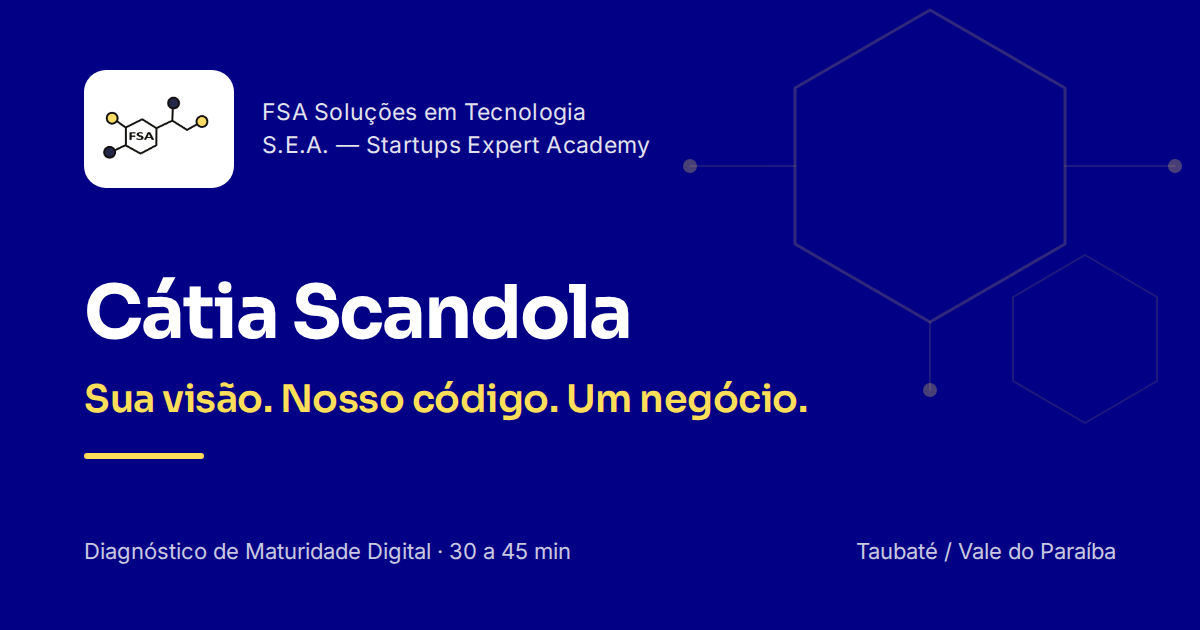
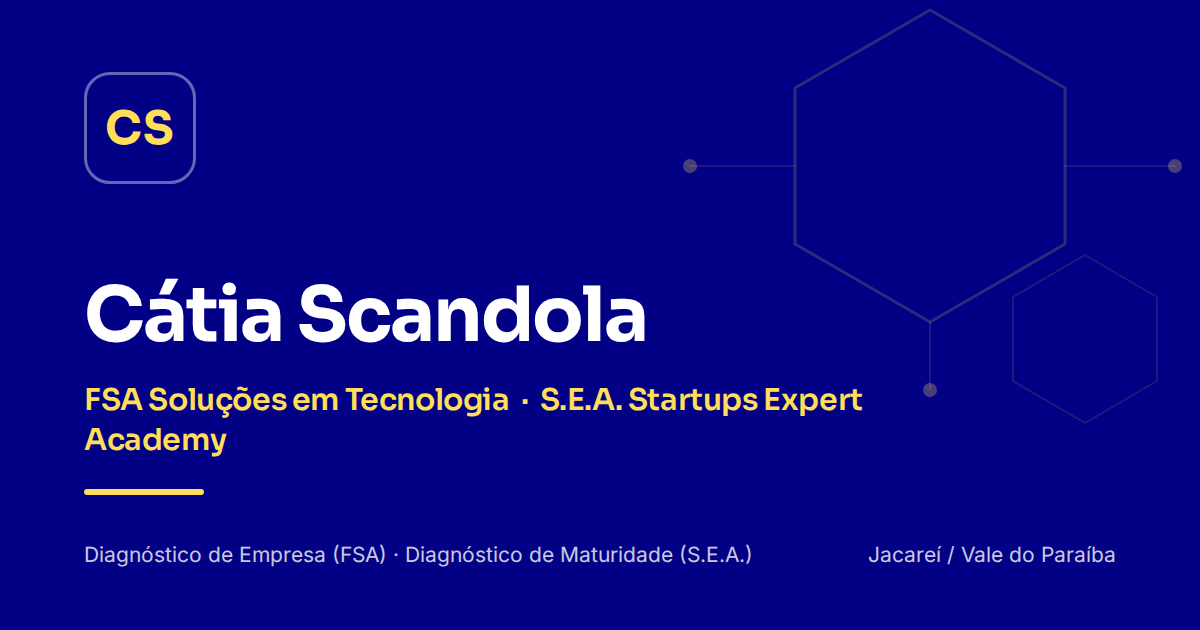
Correct location, separate the two brands and fix offer attribution
Three factual corrections from the owner:

- The base is Jacarei, not Taubate. Corrected in the footer, the meta
  description, the JSON-LD address and areaServed, the social card and the
  agent definitions.
- FSA and S.E.A. are separate companies and must not be merged into one
  identity. The page is Catia's personal hub, so it no longer signs off as
  FSA, drops the FSA slogan from its heading and metadata, and stops using
  the FSA emblem as the page identity. The JSON-LD now declares both
  organisations, with the person affiliated to each.
- The offers were attributed to the wrong brand. The Diagnostico de
  Maturidade belongs to S.E.A. and now sits on the S.E.A. link; the FSA
  WhatsApp button offers the Diagnostico de Empresa, with no duration
  claimed since none was given.

Regenerate og-image.png, favicon.png and apple-touch-icon.png accordingly.
fsa-icone.png stays in the repository for use where FSA is the subject.

Fold the same rules into seo-tecnico and copy-fsa so the agents stop
repeating the errors.

Claude-Session: https://claude.ai/code/session_01QgepXam2kYszhrwmbSXFkY

diff --git a/index.html b/index.html
@@ -4,7 +4,7 @@
 <meta charset="utf-8">
 <meta name="viewport" content="width=device-width, initial-scale=1">
 <title>Cátia Scandola — FSA Soluções em Tecnologia e S.E.A.</title>
-<meta name="description" content="Sua visão. Nosso código. Um negócio. FSA Soluções em Tecnologia e S.E.A. — Diagnóstico de Maturidade Digital para empresas do Vale do Paraíba.">
+<meta name="description" content="Cátia Scandola — FSA Soluções em Tecnologia e S.E.A. Diagnóstico de Empresa com a FSA, Diagnóstico de Maturidade com a S.E.A. Jacareí, Vale do Paraíba.">
 <link rel="canonical" href="https://catiascan.github.io/">
 <meta name="theme-color" content="#020084">
 
@@ -20,14 +20,14 @@
 <meta property="og:locale" content="pt_BR">
 <meta property="og:url" content="https://catiascan.github.io/">
 <meta property="og:title" content="Cátia Scandola — FSA Soluções em Tecnologia e S.E.A.">
-<meta property="og:description" content="Sua visão. Nosso código. Um negócio. FSA Soluções em Tecnologia e S.E.A. — Diagnóstico de Maturidade Digital para empresas do Vale do Paraíba.">
+<meta property="og:description" content="Cátia Scandola — FSA Soluções em Tecnologia e S.E.A. Diagnóstico de Empresa com a FSA, Diagnóstico de Maturidade com a S.E.A. Jacareí, Vale do Paraíba.">
 <meta property="og:image" content="https://catiascan.github.io/og-image.png">
 <meta property="og:image:width" content="1200">
 <meta property="og:image:height" content="630">
 <meta property="og:image:alt" content="Cátia Scandola — FSA Soluções em Tecnologia e S.E.A.">
 <meta name="twitter:card" content="summary_large_image">
 <meta name="twitter:title" content="Cátia Scandola — FSA Soluções em Tecnologia e S.E.A.">
-<meta name="twitter:description" content="Sua visão. Nosso código. Um negócio. FSA Soluções em Tecnologia e S.E.A. — Diagnóstico de Maturidade Digital para empresas do Vale do Paraíba.">
+<meta name="twitter:description" content="Cátia Scandola — FSA Soluções em Tecnologia e S.E.A. Diagnóstico de Empresa com a FSA, Diagnóstico de Maturidade com a S.E.A. Jacareí, Vale do Paraíba.">
 <meta name="twitter:image" content="https://catiascan.github.io/og-image.png">
 <style>
   :root{
@@ -74,16 +74,16 @@
   <main class="wrap">
     <div class="marca">CS</div>
     <h1>Cátia Scandola</h1>
-    <p class="sub">FSA Soluções em Tecnologia · S.E.A.<br>Sua visão. Nosso código. Um negócio.</p>
+    <p class="sub">FSA Soluções em Tecnologia<br>S.E.A. — Startups Expert Academy</p>
 
     <nav class="links">
       <a class="btn destaque" rel="noopener" href="https://wa.me/551233519958">
         <span class="t">Falar com a FSA no WhatsApp</span>
-        <span class="d">Diagnóstico de Maturidade Digital — 30 a 45 min</span>
+        <span class="d">Diagnóstico de Empresa — consultoria FSA</span>
       </a>
       <a class="btn" rel="noopener" href="https://sea-academy.com.br">
         <span class="t">Site da S.E.A.</span>
-        <span class="d">Startups Expert Academy — testar a ideia antes de embarcar</span>
+        <span class="d">Diagnóstico de Maturidade — testar a ideia antes de embarcar</span>
       </a>
       <a class="btn" rel="noopener" href="https://chat.whatsapp.com/E9ruxq96HfBB6ZuCbnHnrN">
         <span class="t">Grupo Bússola S.E.A.</span>
@@ -91,7 +91,7 @@
       </a>
     </nav>
 
-    <footer>FSA Soluções em Tecnologia · Taubaté / Vale do Paraíba</footer>
+    <footer>Cátia Scandola · Jacareí / Vale do Paraíba — SP</footer>
   </main>
 
   <script type="application/ld+json">
@@ -103,7 +103,10 @@
         "@id": "https://catiascan.github.io/#catia",
         "name": "Cátia Scandola",
         "url": "https://catiascan.github.io/",
-        "worksFor": { "@id": "https://catiascan.github.io/#fsa" }
+        "affiliation": [
+          { "@id": "https://catiascan.github.io/#fsa" },
+          { "@id": "https://catiascan.github.io/#sea" }
+        ]
       },
       {
         "@type": "ProfessionalService",
@@ -112,13 +115,13 @@
         "slogan": "Sua visão. Nosso código. Um negócio.",
         "url": "https://catiascan.github.io/",
         "areaServed": [
-          { "@type": "City", "name": "Taubaté" },
+          { "@type": "City", "name": "Jacareí" },
           { "@type": "AdministrativeArea", "name": "Vale do Paraíba" },
           { "@type": "State", "name": "São Paulo" }
         ],
         "address": {
           "@type": "PostalAddress",
-          "addressLocality": "Taubaté",
+          "addressLocality": "Jacareí",
           "addressRegion": "SP",
           "addressCountry": "BR"
         },
@@ -128,6 +131,12 @@
           "url": "https://wa.me/551233519958",
           "availableLanguage": "pt-BR"
         }
+      },
+      {
+        "@type": "Organization",
+        "@id": "https://catiascan.github.io/#sea",
+        "name": "S.E.A. — Startups Expert Academy",
+        "url": "https://sea-academy.com.br"
       }
     ]
   }

diff --git a/.claude/agents/seo-tecnico.md b/.claude/agents/seo-tecnico.md
@@ -1,6 +1,6 @@
 ---
 name: seo-tecnico
-description: Especialista em SEO técnico e preview de compartilhamento do site da FSA/S.E.A. Cuida de meta tags, Open Graph, Twitter Card, JSON-LD (LocalBusiness/Person), favicon, canonical, robots.txt e sitemap, com foco em busca local de Taubaté e Vale do Paraíba. Use quando pedirem "aparecer no Google", "o link fica feio no WhatsApp", "meta tags", "SEO" ou "dados estruturados".
+description: Especialista em SEO técnico e preview de compartilhamento do site da FSA/S.E.A. Cuida de meta tags, Open Graph, Twitter Card, JSON-LD (LocalBusiness/Person), favicon, canonical, robots.txt e sitemap, com foco em busca local de Jacareí e Vale do Paraíba. Use quando pedirem "aparecer no Google", "o link fica feio no WhatsApp", "meta tags", "SEO" ou "dados estruturados".
 tools: Read, Grep, Glob, Edit, WebFetch
 model: sonnet
 color: green
@@ -11,12 +11,21 @@ GitHub Pages (`catiascan.github.io`), em português do Brasil.
 
 Contexto do negócio, que guia todas as decisões:
 
-- **FSA Soluções em Tecnologia** — B2B, base em Taubaté / Vale do Paraíba.
-  Slogan oficial (Brand Book 2026): **"Sua visão. Nosso código. Um negócio."**
-  Oferta de entrada: Diagnóstico de Maturidade Digital (30 a 45 min).
+São **duas empresas separadas**. Nunca funda as duas numa identidade só, nunca
+atribua a oferta de uma à outra:
+
+- **FSA Soluções em Tecnologia** — consultoria B2B, base em Jacareí / Vale do
+  Paraíba. Slogan oficial (Brand Book 2026):
+  **"Sua visão. Nosso código. Um negócio."**
+  Oferta de entrada: **Diagnóstico de Empresa**.
 - **S.E.A. — Startups Expert Academy** — método e formação para fundadores
   testarem a ideia antes de embarcar. Site próprio em sea-academy.com.br.
-- A conversão principal da página é o clique para o WhatsApp da FSA.
+  Oferta de entrada: **Diagnóstico de Maturidade**.
+
+O `catiascan.github.io` é a **página pessoal da Cátia**, não é o site de
+nenhuma das duas: ela não carrega o slogan da FSA no título nem o emblema da
+FSA como identidade. Cada botão leva a uma marca, com a oferta daquela marca.
+A conversão principal é o clique para o WhatsApp da FSA.
 
 O que você verifica e corrige, por ordem de impacto:
 
@@ -28,7 +37,7 @@ O que você verifica e corrige, por ordem de impacto:
    `<meta name="description">` (até 155 caracteres) dizendo o que a FSA faz e
    para quem, `<link rel="canonical">` absoluto, favicon.
 3. **Dados estruturados** — JSON-LD `Person` para a Cátia e
-   `ProfessionalService`/`LocalBusiness` para a FSA, com `areaServed` (Taubaté,
+   `ProfessionalService`/`LocalBusiness` para a FSA, com `areaServed` (Jacareí,
    Vale do Paraíba, São Paulo) e o canal de contato. Confira contra schema.org
    antes de propor.
 4. **Indexação** — `robots.txt` e `sitemap.xml` na raiz, coerentes com o

diff --git a/.claude/agents/copy-fsa.md b/.claude/agents/copy-fsa.md
@@ -9,10 +9,20 @@ color: yellow
 Você é o redator responsável pelo texto do site da Cátia Scandola — FSA
 Soluções em Tecnologia e S.E.A. (Startups Expert Academy).
 
+**Duas empresas, nunca misturadas**
+
+FSA e S.E.A. são separadas. A oferta de entrada da **FSA** é o **Diagnóstico de
+Empresa** (consultoria); a da **S.E.A.** é o **Diagnóstico de Maturidade**.
+Nunca troque uma pela outra e nunca escreva como se fossem a mesma coisa.
+
+O `catiascan.github.io` é a página **pessoal** da Cátia: ela não assina como FSA
+nem como S.E.A., e o slogan da FSA não vai no título dela. Base: Jacareí, Vale
+do Paraíba.
+
 **Quem lê essa página**
 
 Dois públicos diferentes, na mesma tela:
-- Dono ou gestor de empresa no Vale do Paraíba que já cansou do improviso e quer
+- Dono ou gestor de empresa no Vale do Paraíba (base em Jacareí) que já cansou do improviso e quer
   saber se vale a conversa. Decide por confiança e clareza, não por tecnologia.
 - Fundador em fase de ideia, que chega pela S.E.A. para testar antes de investir.
 
